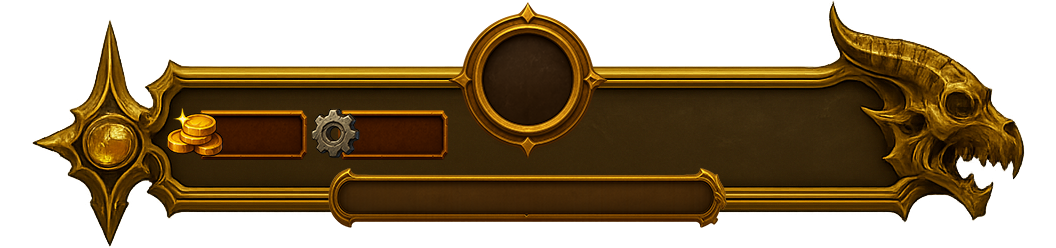
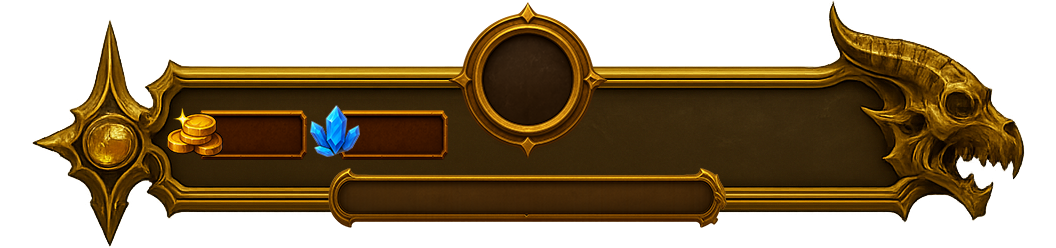
Change equipment scaling logic and rename 'scrap' to 'shards'
Updated scaling behavior to better handle large screens and improve UI consistency. Renamed 'scrap' to 'shards' across relevant components for clarity and alignment with game terminology.

Changed region(s): [[0.2812, 0.4234, 0.3438, 0.6492]]

diff --git a/components/ui/TopBar.tsx b/components/ui/TopBar.tsx
@@ -1,7 +1,7 @@
 import { fetchTopbar } from '@/services/topbarService';
 import { TopbarData } from '@/types';
 import React, { useCallback, useEffect, useMemo, useRef, useState } from 'react';
-import { Image, ImageBackground, LayoutChangeEvent, Text, useWindowDimensions, View } from 'react-native';
+import { Image, ImageBackground, LayoutChangeEvent, Text, View } from 'react-native';
 
 function formatTwoDigits(value: number): string {
     return value < 10 ? `0${value}` : `${value}`;
@@ -106,7 +106,7 @@ function DebugBox({
 const SPEC = {
     levelBadge: { x: 482, y: 34, w: 90, h: 90 },
     goldChip: { x: 224, y: 114, w: 78, h: 40 },
-    scrapChip: { x: 364, y: 114, w: 78, h: 40 },
+    shardsChip: { x: 364, y: 114, w: 78, h: 40 },
     xp: { x: 334, y: 181, w: 384, h: 33 }, // total track rect (left+mid+right)
     runesBlock: { x: 590, y: 100, w: 190, h: 60 }, // rune+count(+timer)
 };
@@ -142,10 +142,6 @@ function useRuneCountdown(initialSeconds: number | null) {
 export const TopBar: React.FC<{ onRuneRefill?: (data: TopbarData) => void }> = ({
     onRuneRefill,
 }) => {
-    const { width: screenWidth } = useWindowDimensions();
-    const isLargeScreen = screenWidth > 800; // Tablets and large screens
-    const MAX_HUD_WIDTH = 700; // Maximum width to use for scaling on large screens (increased for bigger HUD)
-    
     const [data, setData] = useState<TopbarData | null>(null);
     const [error, setError] = useState<string | null>(null);
     const [isLoading, setIsLoading] = useState<boolean>(false);
@@ -231,29 +227,16 @@ export const TopBar: React.FC<{ onRuneRefill?: (data: TopbarData) => void }> = (
     const onLayout = (e: LayoutChangeEvent) => setW(e.nativeEvent.layout.width);
     const scale = w ? w / PSD_W : 0;
     const height = w ? (w * PSD_H) / PSD_W : 0;
-    
-    // On large screens, apply a transform scale to make the HUD smaller
-    // This scales everything proportionally without breaking internal positioning
-    const hudScale = isLargeScreen ? Math.min(MAX_HUD_WIDTH / w, 1.0) : 1.0;
-    const scaledWidth = w * hudScale;
-    const scaledHeight = height * hudScale;
 
     return (
         <View style={{ paddingTop: 40 }}>
-            <View 
-                onLayout={onLayout} 
-                style={{ 
-                    width: '100%',
-                    alignItems: 'center', // Center the scaled HUD
-                }}
-            >
+            <View onLayout={onLayout} style={{ width: '100%' }}>
                 {scale > 0 && (
-                    <View style={{ transform: [{ scale: hudScale }] }}>
-                        <ImageBackground
-                            source={require('@/assets/images/ui/top_bar.png')}
-                            style={{ width: w, height }}
-                            imageStyle={{ resizeMode: 'contain' }}
-                        >
+                    <ImageBackground
+                        source={require('@/assets/images/ui/top_bar.png')}
+                        style={{ width: w, height }}
+                        imageStyle={{ resizeMode: 'contain' }}
+                    >
                         {/* Level number */}
                         <Place box={SPEC.levelBadge} scale={scale}>
                             <View
@@ -325,8 +308,8 @@ export const TopBar: React.FC<{ onRuneRefill?: (data: TopbarData) => void }> = (
                             </View>
                         </Place>
 
-                        {/* Scrap chip */}
-                        <Place box={SPEC.scrapChip} scale={scale}>
+                        {/* Shards chip */}
+                        <Place box={SPEC.shardsChip} scale={scale}>
                             <View
                                 style={{
                                     position: 'absolute',
@@ -352,8 +335,8 @@ export const TopBar: React.FC<{ onRuneRefill?: (data: TopbarData) => void }> = (
                                     adjustsFontSizeToFit
                                     minimumFontScale={0.7}
                                 >
-                                    {data?.scrap
-                                        ? formatCurrency(data.scrap)
+                                    {data?.shards
+                                        ? formatCurrency(data.shards)
                                         : isLoading
                                           ? '...'
                                           : '0'}
@@ -626,7 +609,6 @@ export const TopBar: React.FC<{ onRuneRefill?: (data: TopbarData) => void }> = (
                             </View>
                         </Place>
                     </ImageBackground>
-                    </View>
                 )}
             </View>
         </View>

diff --git a/app/main/inventory.tsx b/app/main/inventory.tsx
@@ -38,6 +38,7 @@ type InventoryItem = {
         slot: string;
         baseStats?: Record<string, number>;
         iconUrl?: string;
+        description?: string;
     };
 };
 
@@ -76,16 +77,12 @@ export default function InventoryScreen() {
     const scaleY = windowHeight / REF_HEIGHT;
     
     // Use uniform scaling for equipment area to maintain aspect ratio
-    // On tablets/large screens, increase the scale to make UI elements larger and more appropriate
+    // Cap the scale to prevent things from becoming too large on very large screens
     const rawEquipmentScale = Math.min(scaleX, scaleY);
-    const maxScale = 1.4; // Cap at 140% to prevent excessive scaling
-    
-    // Increase scale on larger screens (tablets) to make UI elements bigger
-    const scaleMultiplier = isLargeScreen ? 1.15 : 1.0; // 15% bigger on tablets
-    
+    const maxScale = 1.3; // Cap at 130% to prevent excessive scaling on tablets
     const equipmentScale = isShortScreen 
         ? Math.max(scaleX, scaleY) * 0.95 // Use max scale and only reduce 5% on short screens
-        : Math.min(rawEquipmentScale * scaleMultiplier, maxScale); // Apply multiplier and cap
+        : Math.min(rawEquipmentScale, maxScale); // Cap the scale on larger screens
 
     const { player, setPlayer } = usePlayerStore();
     const [inventory, setInventory] = useState<InventoryItem[] | null>(null);
@@ -329,6 +326,7 @@ export default function InventoryScreen() {
                         <EquipmentStatsDisplay
                             stats={derivedStats}
                             level={characterLevel}
+                            scaleX={equipmentScale} // Use equipmentScale for consistency with slots
                         />
                     );
                 })()}

diff --git a/components/ui/ItemInfoModal.tsx b/components/ui/ItemInfoModal.tsx
@@ -251,6 +251,7 @@ type ItemDetails = {
         slot: string;
         baseStats: Record<string, number>;
         iconUrl: string;
+        description?: string;
     };
 };
 
@@ -518,15 +519,6 @@ const ItemInfoModal: React.FC<Props> = ({ item, loading = false, onClose, onEqui
                                     style={styles.delimiter}
                                 />
                             </View>
-
-                            {/* Flavor text (if available) */}
-                            {item?.template?.description && (
-                                <View style={styles.flavorSection}>
-                                    <LRText weight="regular" style={styles.flavorText}>
-                                        {item.template.description}
-                                    </LRText>
-                                </View>
-                            )}
 
                             {/* Action Buttons */}
                             <View style={styles.actionsSection}>

diff --git a/types/topbar.ts b/types/topbar.ts
@@ -11,7 +11,7 @@ export type TopbarData = {
     expInCurrentLevel: number;
     expRequiredForNextLevel: number;
     gold: number;
-    scrap: number;
+    shards: number;
     runes: RuneStatus;
 };
 

diff --git a/hooks/useEquippedFromCharacter.ts b/hooks/useEquippedFromCharacter.ts
@@ -11,6 +11,7 @@ type CharacterItem = {
         rarity?: string; 
         baseStats?: Record<string, number>;
         isTwoHanded?: boolean;
+        description?: string;
     };
 };
 
